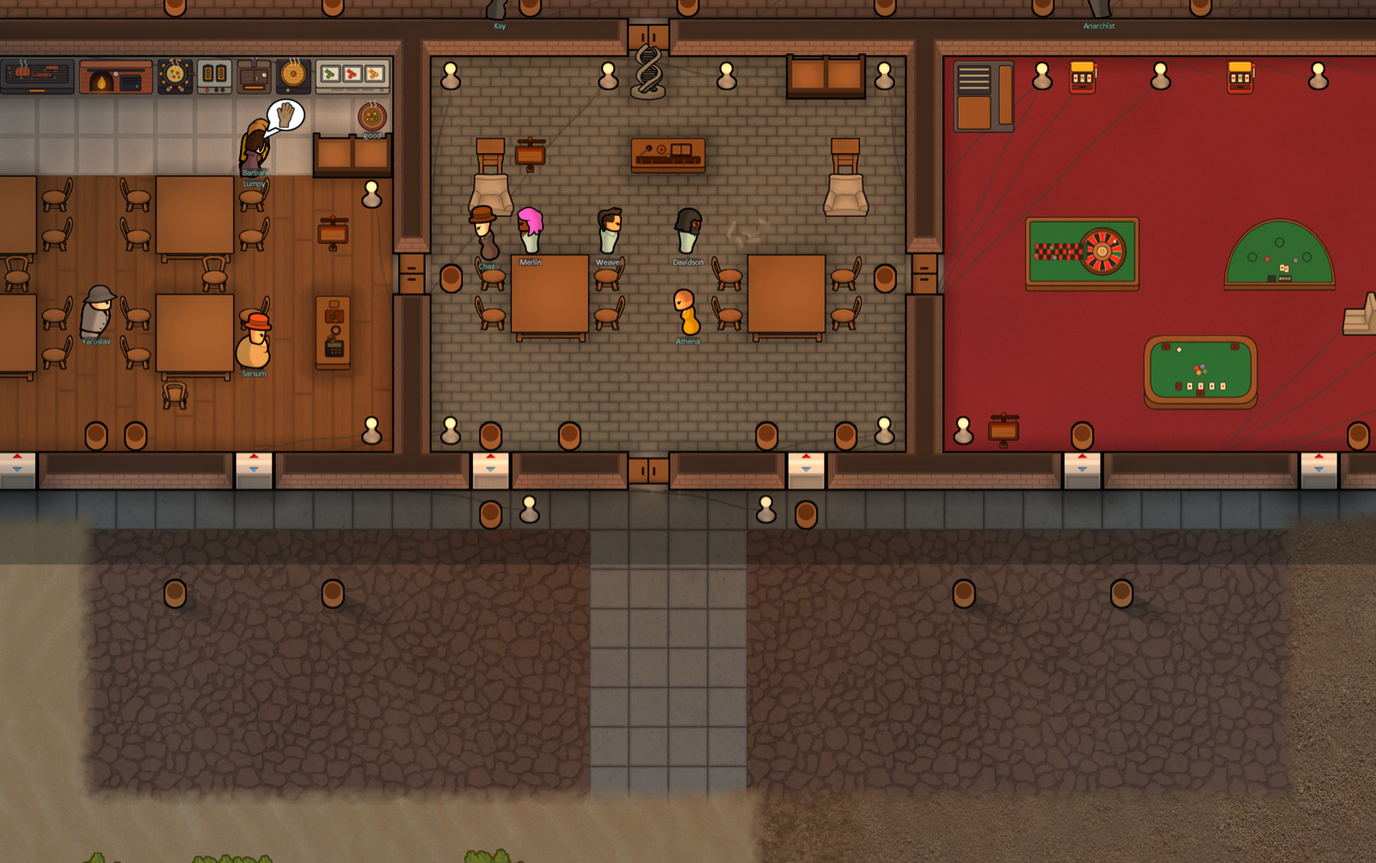
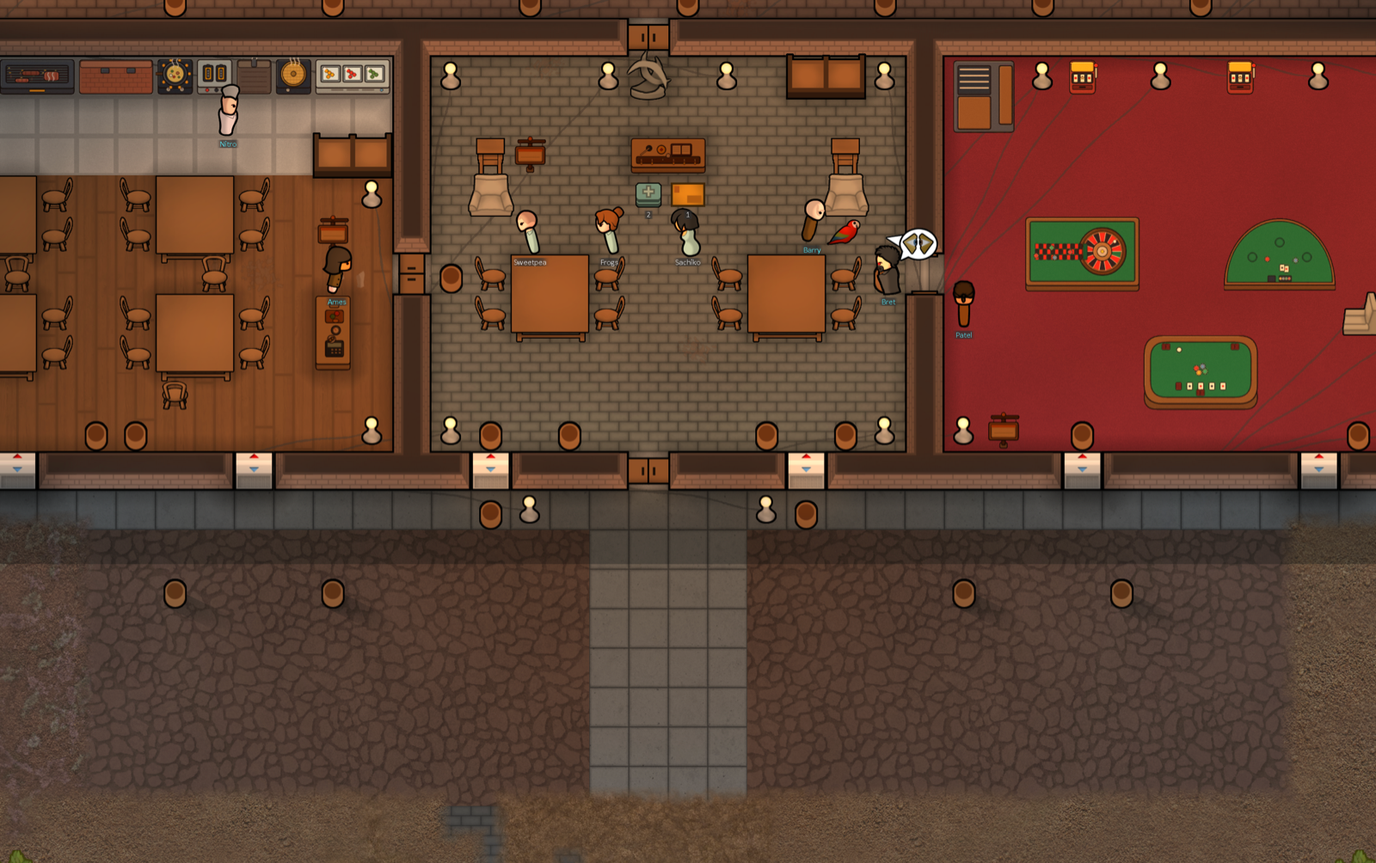
Long-run report (15 days, arrivals on every stretch) and showcase screenshots with real art

diff --git a/docs/longrun/longrun.md b/docs/longrun/longrun.md
@@ -6,117 +6,123 @@ Day 0 is the partial build day, days 1..N are full ledger days (60000 ticks). Mo
 
 | day | present | arrived | left | nights | income | till | bank | renown | whispers | satisf. | casino house | cooked | sold | premium | claims | ledger | errors | TPS | pawns |
 |---|---|---|---|---|---|---|---|---|---|---|---|---|---|---|---|---|---|---|---|
-| 0 | 2 | 5 | 3 | 2 | 505.8 | 0 | 4773 | 12.3 | 0.0 | 0.79 | 14.1 | 5 | 5 | 0.0 | 0 | 0 | 0 | 900 | 89 |
-| 1 | 2 | 0 | 0 | 2 | 210.0 | 0 | 4997 | 12.3 | 0.0 | 0.91 | -9.0 | 0 | 0 | 0.0 | 0 | 0 | 0 | 900 | 84 |
-| 2 | 0 | 3 | 5 | 0 | 0.0 | 0 | 5012 | 15.5 | 0.0 | 0.67 | 0.8 | 0 | 0 | 0.0 | 0 | 0 | 0 | 900 | 80 |
-| 3 | 0 | 0 | 0 | 0 | 60.0 | 60 | 5028 | 15.5 | 0.0 | - | 0.0 | 9 | 4 | 0.0 | 0 | 0 | 0 | 900 | 76 |
-| 4 | 0 | 1 | 1 | 0 | 15.0 | 0 | 5043 | 16.2 | 0.0 | 0.44 | -17.4 | 2 | 1 | 0.0 | 0 | 0 | 0 | 896 | 73 |
-| 5 | 2 | 5 | 3 | 2 | 132.4 | 7 | 5014 | 17.6 | 0.0 | 0.57 | 5.9 | 0 | 0 | 15.6 | 0 | 0 | 0 | 848 | 77 |
-| 6 | 2 | 2 | 2 | 2 | 155.0 | 0 | 5191 | 18.9 | 0.0 | 0.59 | 0.0 | 0 | 0 | 0.0 | 0 | 0 | 0 | 895 | 75 |
-| 7 | 2 | 0 | 0 | 2 | 155.0 | 0 | 5361 | 18.9 | 0.0 | 0.37 | -3.2 | 0 | 0 | 0.0 | 0 | 0 | 0 | 896 | 75 |
-| 8 | 0 | 0 | 2 | 0 | 0.0 | 0 | 5377 | 19.4 | 0.0 | 0.26 | 0.0 | 0 | 0 | 0.0 | 0 | 0 | 0 | 896 | 85 |
-| 9 | 0 | 0 | 0 | 0 | 0.0 | 0 | 5394 | 19.4 | 0.0 | - | 0.0 | 0 | 0 | 0.0 | 0 | 0 | 0 | 895 | 75 |
-| 10 | 0 | 0 | 0 | 0 | 0.0 | 0 | 5367 | 19.4 | 0.0 | - | 0.0 | 0 | 0 | 14.4 | 0 | 0 | 0 | 895 | 73 |
-| 11 | 0 | 0 | 0 | 0 | 0.0 | 0 | 5383 | 19.4 | 0.0 | - | 12.7 | 0 | 0 | 0.0 | 0 | 0 | 0 | 895 | 73 |
-| 12 | 0 | 0 | 0 | 0 | 0.0 | 0 | 5400 | 19.4 | 0.0 | - | 0.0 | 0 | 0 | 0.0 | 0 | 0 | 0 | 894 | 72 |
-| 13 | 0 | 0 | 0 | 0 | 0.0 | 0 | 5416 | 19.4 | 0.0 | - | 0.0 | 0 | 0 | 0.0 | 0 | 0 | 0 | 843 | 71 |
-| 14 | 0 | 0 | 0 | 0 | 0.0 | 0 | 5432 | 19.4 | 0.0 | - | 0.0 | 0 | 0 | 0.0 | 1 | 0 | 0 | 894 | 68 |
-| 15 | 0 | 0 | 0 | 0 | 0.0 | 0 | 5406 | 19.4 | 0.0 | - | 28.5 | 1 | 0 | 14.4 | 0 | 0 | 0 | 895 | 67 |
+| 0 | 2 | 5 | 3 | 2 | 446.4 | 0 | 4711 | 12.1 | 0.0 | 0.75 | 0.0 | 5 | 13 | 0.0 | 0 | 0 | 0 | 883 | 21 |
+| 1 | 3 | 1 | 0 | 3 | 89.4 | 14 | 4801 | 12.2 | 0.0 | 0.79 | 0.0 | 5 | 1 | 0.0 | 0 | 0 | 0 | 900 | 22 |
+| 2 | 2 | 2 | 3 | 2 | 200.2 | 0 | 5029 | 14.8 | 0.0 | 0.61 | 8.3 | 14 | 11 | 0.0 | 0 | 0 | 0 | 900 | 21 |
+| 3 | 3 | 1 | 0 | 3 | 94.1 | 0 | 5139 | 14.8 | 0.0 | 0.50 | -1.6 | 0 | 0 | 0.0 | 0 | 0 | 0 | 900 | 21 |
+| 4 | 0 | 0 | 3 | 1 | 33.4 | 0 | 5187 | 16.5 | 0.0 | 0.50 | 0.0 | 0 | 0 | 0.0 | 0 | 0 | 0 | 897 | 18 |
+| 5 | 0 | 6 | 6 | 0 | 0.0 | 0 | 5156 | 18.7 | 0.0 | 0.46 | -0.1 | 13 | 0 | 17.8 | 0 | 0 | 0 | 848 | 18 |
+| 6 | 0 | 0 | 0 | 0 | 0.0 | 0 | 5172 | 18.7 | 0.0 | - | -3.0 | 7 | 0 | 0.0 | 0 | 0 | 0 | 895 | 17 |
+| 7 | 2 | 2 | 0 | 2 | 103.0 | 0 | 5291 | 18.7 | 0.0 | 0.58 | 0.0 | 4 | 4 | 0.0 | 0 | 0 | 0 | 896 | 19 |
+| 8 | 0 | 0 | 2 | 1 | 167.0 | 0 | 5473 | 20.0 | 0.0 | 0.69 | 0.0 | 7 | 7 | 0.0 | 0 | 0 | 0 | 896 | 17 |
+| 9 | 1 | 1 | 0 | 1 | 25.0 | 0 | 5515 | 20.0 | 0.0 | 0.55 | 1.1 | 0 | 0 | 0.0 | 0 | 0 | 0 | 892 | 18 |
+| 10 | 0 | 0 | 1 | 0 | 0.0 | 0 | 5485 | 20.9 | 0.0 | 0.71 | 4.2 | 1 | 0 | 17.8 | 0 | 0 | 0 | 895 | 17 |
+| 11 | 0 | 0 | 0 | 0 | 0.0 | 0 | 5501 | 20.9 | 0.0 | - | 0.0 | 19 | 0 | 0.0 | 0 | 0 | 0 | 895 | 17 |
+| 12 | 0 | 0 | 0 | 0 | 0.0 | 0 | 5518 | 20.9 | 0.0 | - | 6.5 | 5 | 0 | 0.0 | 0 | 0 | 0 | 896 | 36 |
+| 13 | 2 | 2 | 0 | 2 | 0.0 | 0 | 5535 | 20.9 | 0.0 | 0.43 | 8.6 | 3 | 6 | 0.0 | 1 | 0 | 0 | 848 | 20 |
+| 14 | 2 | 6 | 6 | 2 | 50.0 | 0 | 5602 | 22.9 | 0.0 | 0.45 | 0.0 | 0 | 0 | 0.0 | 0 | 0 | 0 | 896 | 19 |
+| 15 | 1 | 1 | 2 | 3 | 75.0 | 0 | 5648 | 23.7 | 0.0 | 0.41 | 0.0 | 0 | 0 | 16.9 | 0 | 0 | 0 | 896 | 18 |
 
 ## Income by category (silver per day)
 
-| day | food | inn.room | spa |
-|---|---|---|---|
-| 0 | 241.8 | 210.0 | 54.0 |
-| 1 | 0 | 210.0 | 0 |
-| 2 | 0 | 0 | 0 |
-| 3 | 60.0 | 0 | 0 |
-| 4 | 15.0 | 0 | 0 |
-| 5 | 0 | 100.0 | 32.4 |
-| 6 | 0 | 155.0 | 0 |
-| 7 | 0 | 155.0 | 0 |
-| 8 | 0 | 0 | 0 |
-| 9 | 0 | 0 | 0 |
-| 10 | 0 | 0 | 0 |
-| 11 | 0 | 0 | 0 |
-| 12 | 0 | 0 | 0 |
-| 13 | 0 | 0 | 0 |
-| 14 | 0 | 0 | 0 |
-| 15 | 0 | 0 | 0 |
+| day | casino | food | inn.room | shop | spa |
+|---|---|---|---|---|---|
+| 0 | 0 | 328.8 | 50.0 | 0 | 67.6 |
+| 1 | 0 | 14.4 | 75.0 | 0 | 0 |
+| 2 | 0 | 147.2 | 50.0 | 3.0 | 0 |
+| 3 | 0 | 0 | 75.0 | 19.1 | 0 |
+| 4 | 0 | 0 | 25.0 | 8.4 | 0 |
+| 5 | 0 | 0 | 0 | 0 | 0 |
+| 6 | 0 | 0 | 0 | 0 | 0 |
+| 7 | 0 | 53.0 | 50.0 | 0 | 0 |
+| 8 | 0 | 142.0 | 25.0 | 0 | 0 |
+| 9 | 0 | 0 | 25.0 | 0 | 0 |
+| 10 | 0 | 0 | 0 | 0 | 0 |
+| 11 | 0 | 0 | 0 | 0 | 0 |
+| 12 | 0 | 0 | 0 | 0 | 0 |
+| 13 | -171.4 | 94.5 | 50.0 | 26.9 | 0 |
+| 14 | 0 | 0 | 50.0 | 0 | 0 |
+| 15 | 0 | 0 | 75.0 | 0 | 0 |
 
 ## Balance
 
-* Average income per full day: **48.5** (first 5 days: 83.5); target KONZEPT D20 early game: 60-150 per day.
-* Guests seen: 11, nights sold: 10, plates cooked (lower bound, polled): 17, plates sold: 10.
-* Renown 12.3 to 19.4, whispers 0.0; TPS average 890.
+* Average income per full day: **55.8** (first 5 days: 83.4); target KONZEPT D20 early game: 60-150 per day.
+* Guests seen: 12, nights sold: 22, plates cooked (lower bound, polled): 83, plates sold: 42.
+* Renown 12.1 to 23.7, whispers 0.0; TPS average 890.
 
 ## Checks
 
-* ok   hotel furniture spawned: 44 powered buildings, 0 without power
+* ok   all four venues are recognised: The Harbor Light, Hearth Kitchen, The Golden Anchor, Tidewater Spa
+* ok   hotel furniture spawned: 58 powered buildings, 0 without power
 * ok   colonists on the map: 3
 * ok   bank account opened
 * ok   at least one insurance policy signed
-* ok   entrance door reachable from the plaza ((121, 0, 101), standable=True)
-* ok   lobby reachable from the plaza ((121, 0, 107), standable=True)
-* ok   restaurant reachable from the plaza ((108, 0, 106), standable=True)
-* ok   restaurant stations row reachable from the plaza ((108, 0, 110), standable=True)
-* ok   casino reachable from the plaza ((135, 0, 106), standable=True)
-* ok   corridor reachable from the plaza ((121, 0, 113), standable=True)
-* ok   room 1 reachable from the plaza ((104, 0, 118), standable=True)
-* ok   room 2 reachable from the plaza ((110, 0, 118), standable=True)
-* ok   room 3 reachable from the plaza ((116, 0, 118), standable=True)
-* ok   spa reachable from the plaza ((125, 0, 118), standable=True)
-* ok   bank reachable from the plaza ((136, 0, 118), standable=True)
-* ok   HH_FrontDesk at (121, 0, 109) rot 0: interaction cell (121, 0, 108) reachable (standable=True, blockers=[])
-* ok   HH_Station_PrepCounter at (102, 0, 111) rot 0: interaction cell (102, 0, 110) reachable (standable=True, blockers=[])
-* ok   HH_Station_StockPot at (104, 0, 111) rot 0: interaction cell (104, 0, 110) reachable (standable=True, blockers=[])
-* ok   HH_Station_Grill at (105, 0, 111) rot 0: interaction cell (105, 0, 110) reachable (standable=True, blockers=[])
-* ok   HH_Station_Oven at (107, 0, 111) rot 0: interaction cell (107, 0, 110) reachable (standable=True, blockers=[])
-* ok   HH_Station_WokStation at (109, 0, 111) rot 0: interaction cell (109, 0, 110) reachable (standable=True, blockers=[])
-* ok   HH_Station_DeepFryer at (110, 0, 111) rot 0: interaction cell (110, 0, 110) reachable (standable=True, blockers=[])
-* ok   HH_Station_Smoker at (111, 0, 111) rot 0: interaction cell (111, 0, 110) reachable (standable=True, blockers=[])
-* ok   HH_Station_Steamer at (112, 0, 111) rot 0: interaction cell (112, 0, 110) reachable (standable=True, blockers=[])
-* ok   HH_Station_ColdStation at (113, 0, 111) rot 0: interaction cell (113, 0, 110) reachable (standable=True, blockers=[])
-* ok   HH_Station_DoughBench at (102, 0, 108) rot 3: interaction cell (103, 0, 108) reachable (standable=True, blockers=[DiningChair])
-* ok   HH_ShopCounter at (113, 0, 104) rot 3: interaction cell (114, 0, 104) reachable (standable=True, blockers=[])
+* ok   entrance door reachable from the plaza ((130, 0, 103), standable=True)
+* ok   lobby reachable from the plaza ((130, 0, 109), standable=True)
+* ok   restaurant reachable from the plaza ((117, 0, 108), standable=True)
+* ok   restaurant stations row reachable from the plaza ((117, 0, 112), standable=True)
+* ok   casino reachable from the plaza ((144, 0, 108), standable=True)
+* ok   corridor reachable from the plaza ((130, 0, 115), standable=True)
+* ok   room 1 reachable from the plaza ((113, 0, 120), standable=True)
+* ok   room 2 reachable from the plaza ((119, 0, 120), standable=True)
+* ok   room 3 reachable from the plaza ((125, 0, 120), standable=True)
+* ok   spa reachable from the plaza ((134, 0, 120), standable=True)
+* ok   bank reachable from the plaza ((145, 0, 120), standable=True)
+* ok   HH_FrontDesk at (130, 0, 111) rot 0: interaction cell (130, 0, 110) reachable (standable=True, blockers=[])
+* ok   HH_Station_PrepCounter at (111, 0, 113) rot 0: interaction cell (111, 0, 112) reachable (standable=True, blockers=[])
+* ok   HH_Station_StockPot at (113, 0, 113) rot 0: interaction cell (113, 0, 112) reachable (standable=True, blockers=[])
+* ok   HH_Station_Grill at (114, 0, 113) rot 0: interaction cell (114, 0, 112) reachable (standable=True, blockers=[])
+* ok   HH_Station_Oven at (116, 0, 113) rot 0: interaction cell (116, 0, 112) reachable (standable=True, blockers=[])
+* ok   HH_Station_WokStation at (118, 0, 113) rot 0: interaction cell (118, 0, 112) reachable (standable=True, blockers=[])
+* ok   HH_Station_DeepFryer at (119, 0, 113) rot 0: interaction cell (119, 0, 112) reachable (standable=True, blockers=[])
+* ok   HH_Station_Smoker at (120, 0, 113) rot 0: interaction cell (120, 0, 112) reachable (standable=True, blockers=[])
+* ok   HH_Station_Steamer at (121, 0, 113) rot 0: interaction cell (121, 0, 112) reachable (standable=True, blockers=[])
+* ok   HH_Station_ColdStation at (122, 0, 113) rot 0: interaction cell (122, 0, 112) reachable (standable=True, blockers=[])
+* ok   HH_Station_DoughBench at (111, 0, 110) rot 3: interaction cell (112, 0, 110) reachable (standable=True, blockers=[DiningChair])
+* ok   HH_ShopCounter at (122, 0, 106) rot 3: interaction cell (123, 0, 106) reachable (standable=True, blockers=[])
 * ok   at least one dish bill could be set up
-* ok   friendly faction for guests: Terbinunt
+* ok   friendly faction for guests: Hefinistan Pact
 * ok   all days played: 15/15
 * ok   ledger sums to zero all the time
 * ok   no HLog errors during the run: 0
-* FAIL guests arrived on at least 5 days (shortened runs: a third): 4 of 15
-* ok   income > 0: 1233.2 silver over 16 ledger days
-* ok   no guest stuck for more than 3 days: ok (11 guests seen)
+* ok   guests arrived on at least 5 days (shortened runs: a third): 9 of 15
+* ok   income > 0: 1283.5 silver over 16 ledger days
+* ok   no guest stuck for more than 3 days: ok (12 guests seen)
 * ok   no module paused by Guard
 
 ## Notes
 
 * research of the mod finished up front (hospitality + banking tabs): 18 projects (the run measures the finished hotel, not the research path)
-* building origin (101, 0, 101) on map (250, 1, 250)
+* building origin (110, 0, 103) on map (250, 1, 250)
 * carpets: CarpetRed / CarpetBlue / CarpetWhite
+* rooms set to 21 C: 17 (outdoors 4 C)
 * lone powered buildings re-wired: 0
+* sign The Harbor Light: type HH_Venue_Tavern, room 138 cells 120, module on True
+* sign Hearth Kitchen: type HH_Venue_Restaurant, room 137 cells 130, module on True
+* sign The Golden Anchor: type HH_Venue_Casino, room 139 cells 130, module on True
+* sign Tidewater Spa: type HH_Venue_Spa, room 153 cells 60, module on True
 * policy SL_RoofOverHead: signed
 * policy SL_RimHealth: signed
 * policy SL_LegalShield: signed
 * raids, mad animals and other threat incidents switched off (threatScale 0, 34 incident defs zeroed) so the run measures the hotel, not defence
-* cook check Pepper: Cooking disabled=False priority=3 skill=1 manhunter/incapable=False
-* cook check Missy: Cooking disabled=False priority=3 skill=0 manhunter/incapable=False
-* cook check Mariya: Cooking disabled=False priority=3 skill=1 manhunter/incapable=False
+* cook check Espinoza: Cooking disabled=False priority=3 skill=3 manhunter/incapable=False
+* cook check Andy: Cooking disabled=False priority=3 skill=2 manhunter/incapable=False
+* cook check Tiny: Cooking disabled=False priority=3 skill=1 manhunter/incapable=False
 * kitchen bills added: 18 (do-until 3 plates, Everyday quality)
 * forced guest groups on day 0: 2 (no forced guests after this)
 * start tick 12776, first day boundary 60000, running 15 full days, colonists 3, map (250, 1, 250)
 * bill diag @15296: HH_Station_PrepCounter 'HH_Cook_FruitBowl' shouldNow=True suspended=False products=0/3 powered= usable=True
-*   workgiver HH_Station_PrepCounter for Pepper: JOB DoBill
-*   workgiver HH_Station_PrepCounter for Missy: no job (has=False, forbidden=False, reach=True, reserve=True, cookDisabled=False, prio=3, curjob=GotoWander)
-*   workgiver HH_Station_PrepCounter for Mariya: JOB DoBill
+*   workgiver HH_Station_PrepCounter for Espinoza: JOB DoBill
+*   workgiver HH_Station_PrepCounter for Andy: JOB DoBill
+*   workgiver HH_Station_PrepCounter for Tiny: JOB DoBill
 * bill diag @15296: HH_Station_StockPot 'HH_Cook_BerryCompote' shouldNow=True suspended=False products=0/3 powered= usable=True
-*   workgiver HH_Station_StockPot for Pepper: JOB DoBill
-*   workgiver HH_Station_StockPot for Missy: no job (has=False, forbidden=False, reach=True, reserve=True, cookDisabled=False, prio=3, curjob=GotoWander)
-*   workgiver HH_Station_StockPot for Mariya: JOB DoBill
+*   workgiver HH_Station_StockPot for Espinoza: JOB DoBill
+*   workgiver HH_Station_StockPot for Andy: JOB DoBill
+*   workgiver HH_Station_StockPot for Tiny: JOB DoBill
 * bill diag @15296: HH_Station_Grill 'HH_Cook_RoastCornOnTheCob' shouldNow=True suspended=False products=0/3 powered= usable=True
-* colonist Pepper @15296: spawned=True downed=False mental=False starving=False exhausted=False hediffs=[Bite:2.0] hp=1.00
-* colonist Missy @15296: spawned=True downed=False mental=False starving=False exhausted=False hediffs=[Bite:4.0] hp=1.00
-* colonist Mariya @15296: spawned=True downed=False mental=False starving=False exhausted=False hediffs=[] hp=1.00
+* colonist Espinoza @15296: spawned=True downed=False mental=False starving=False exhausted=False hediffs=[] hp=1.00
+* colonist Andy @15296: spawned=True downed=False mental=False starving=False exhausted=False hediffs=[] hp=1.00
+* colonist Tiny @15296: spawned=True downed=False mental=False starving=False exhausted=False hediffs=[Bite:5.0] hp=1.00
 * bill diag @30416: HH_Station_PrepCounter 'HH_Cook_FruitBowl' shouldNow=True suspended=False products=0/3 powered= usable=True
 * bill diag @30416: HH_Station_StockPot 'HH_Cook_BerryCompote' shouldNow=True suspended=False products=0/3 powered= usable=True
 * bill diag @30416: HH_Station_Grill 'HH_Cook_RoastCornOnTheCob' shouldNow=True suspended=False products=0/3 powered= usable=True
@@ -129,98 +135,93 @@ Day 0 is the partial build day, days 1..N are full ledger days (60000 ticks). Mo
 * bill diag @75776: HH_Station_PrepCounter 'HH_Cook_FruitBowl' shouldNow=True suspended=False products=0/3 powered= usable=True
 * bill diag @75776: HH_Station_StockPot 'HH_Cook_BerryCompote' shouldNow=True suspended=False products=0/3 powered= usable=True
 * bill diag @75776: HH_Station_Grill 'HH_Cook_RoastCornOnTheCob' shouldNow=True suspended=False products=0/3 powered= usable=True
-* colonist Missy @83336: spawned=True downed=False mental=False starving=False exhausted=True hediffs=[Bite:4.0] hp=1.00
-* colonist Missy @118616: spawned=True downed=False mental=False starving=False exhausted=False hediffs=[Bite:4.0] hp=1.00
-* colonist Pepper @204296: spawned=True downed=False mental=False starving=False exhausted=False hediffs=[Bite:2.0,HH_WellFed:0.5] hp=1.00
-* colonist Pepper @214376: spawned=True downed=False mental=False starving=False exhausted=False hediffs=[Bite:2.0] hp=1.00
-* colonist Mariya @214376: spawned=True downed=False mental=False starving=False exhausted=False hediffs=[HH_WellFed:0.5] hp=1.00
-* colonist Missy @219416: spawned=True downed=False mental=False starving=False exhausted=False hediffs=[Bite:4.0,HH_WellFed:0.5] hp=1.00
-* colonist Mariya @221936: spawned=True downed=False mental=False starving=False exhausted=False hediffs=[] hp=1.00
-* colonist Missy @224456: spawned=True downed=False mental=False starving=False exhausted=False hediffs=[Bite:4.0] hp=1.00
-* colonist Pepper @269816: spawned=True downed=False mental=False starving=False exhausted=False hediffs=[Bite:2.0,HH_WellFed:0.5] hp=1.00
-* colonist Missy @274856: spawned=True downed=False mental=False starving=False exhausted=False hediffs=[Bite:4.0,Plague:0.0] hp=1.00
-* colonist Pepper @277376: spawned=True downed=False mental=False starving=False exhausted=False hediffs=[Bite:2.0] hp=1.00
-* colonist Missy @279896: spawned=True downed=False mental=False starving=False exhausted=False hediffs=[Bite:4.0,Plague:0.1] hp=1.00
-* colonist Missy @289976: spawned=True downed=False mental=False starving=False exhausted=False hediffs=[Bite:4.0,Plague:0.2] hp=1.00
-* colonist Missy @297536: spawned=True downed=False mental=False starving=False exhausted=False hediffs=[Bite:4.0,Plague:0.3] hp=1.00
-* colonist Missy @307616: spawned=True downed=False mental=False starving=False exhausted=False hediffs=[Bite:4.0,Plague:0.4] hp=1.00
-* colonist Missy @317696: spawned=True downed=False mental=False starving=False exhausted=False hediffs=[Bite:4.0,Plague:0.5] hp=1.00
-* colonist Missy @325256: spawned=True downed=False mental=False starving=False exhausted=False hediffs=[Bite:4.0,Plague:0.6] hp=1.00
-* colonist Missy @335336: spawned=True downed=False mental=False starving=False exhausted=False hediffs=[Bite:4.0,Plague:0.7] hp=1.00
-* colonist Missy @342896: spawned=True downed=False mental=False starving=False exhausted=False hediffs=[Bite:4.0,Plague:0.8] hp=1.00
-* colonist Missy @352976: spawned=True downed=False mental=False starving=False exhausted=False hediffs=[Bite:4.0,Plague:0.9] hp=1.00
-* colonist Mariya @352976: spawned=True downed=False mental=False starving=False exhausted=False hediffs=[FoodPoisoning:1.0] hp=1.00
-* colonist Mariya @355496: spawned=True downed=False mental=False starving=False exhausted=False hediffs=[FoodPoisoning:0.9] hp=1.00
-* colonist Missy @358016: spawned=True downed=True mental=False starving=False exhausted=False hediffs=[Bite:4.0,Plague:0.9] hp=1.00
-* colonist Missy @360536: spawned=True downed=True mental=False starving=False exhausted=False hediffs=[Bite:4.0,Plague:1.0] hp=1.00
-* colonist Mariya @363056: spawned=True downed=False mental=False starving=False exhausted=False hediffs=[FoodPoisoning:0.8] hp=1.00
-* colonist Missy @365576: DEAD: Bite 4.00, Plague 1.00
-* colonist Mariya @365576: spawned=True downed=True mental=False starving=False exhausted=False hediffs=[FoodPoisoning:0.8] hp=1.00
-* colonist Mariya @368096: spawned=True downed=True mental=False starving=False exhausted=False hediffs=[FoodPoisoning:0.7] hp=1.00
-* colonist Mariya @373136: spawned=True downed=True mental=False starving=False exhausted=False hediffs=[FoodPoisoning:0.6] hp=1.00
-* colonist Mariya @380696: spawned=True downed=True mental=False starving=False exhausted=False hediffs=[FoodPoisoning:0.5] hp=1.00
-* colonist Mariya @385736: spawned=True downed=True mental=False starving=False exhausted=False hediffs=[FoodPoisoning:0.4] hp=1.00
-* colonist Mariya @393296: spawned=True downed=True mental=False starving=False exhausted=False hediffs=[FoodPoisoning:0.3] hp=1.00
-* colonist Mariya @398336: spawned=True downed=True mental=False starving=False exhausted=False hediffs=[FoodPoisoning:0.2] hp=1.00
-* colonist Mariya @400856: spawned=True downed=False mental=False starving=False exhausted=False hediffs=[FoodPoisoning:0.2] hp=1.00
-* colonist Mariya @403376: spawned=True downed=False mental=False starving=False exhausted=False hediffs=[FoodPoisoning:0.1] hp=1.00
-* colonist Mariya @410936: spawned=True downed=False mental=False starving=False exhausted=False hediffs=[FoodPoisoning:0.0] hp=1.00
-* colonist Mariya @413456: spawned=True downed=False mental=False starving=False exhausted=False hediffs=[] hp=1.00
-*   damage to Pepper: <color=#D09B61FF>Mariya</color>, using her left fist tentatively, hit <color=#D09B61FF>Pepper</color> in the right arm. | <color=#D09B61FF>Pepper</color> attempted to hit <color=#D09B61FF>Mariya</color>, but hit only air. | <color=#D09B61FF>Mariya</color> smashed <color=#D09B61FF>Pepper</color> in the right leg.
-*   damage to Mariya: <color=#D09B61FF>Mariya</color>, using her left fist tentatively, hit <color=#D09B61FF>Pepper</color> in the right arm. | <color=#D09B61FF>Pepper</color> attempted to hit <color=#D09B61FF>Mariya</color>, but hit only air. | <color=#D09B61FF>Mariya</color> smashed <color=#D09B61FF>Pepper</color> in the right leg.
-*   damage to Pepper: <color=#D09B61FF>Mariya</color>, using her left fist tentatively, hit <color=#D09B61FF>Pepper</color> in the right arm. | <color=#D09B61FF>Pepper</color> attempted to hit <color=#D09B61FF>Mariya</color>, but hit only air. | <color=#D09B61FF>Mariya</color> smashed <color=#D09B61FF>Pepper</color> in the right leg.
-*   damage to Mariya: <color=#D09B61FF>Mariya</color>, using her left fist tentatively, hit <color=#D09B61FF>Pepper</color> in the right arm. | <color=#D09B61FF>Pepper</color> attempted to hit <color=#D09B61FF>Mariya</color>, but hit only air. | <color=#D09B61FF>Mariya</color> smashed <color=#D09B61FF>Pepper</color> in the right leg.
-*   damage to Pepper: <color=#D09B61FF>Mariya</color>, using her left fist tentatively, hit <color=#D09B61FF>Pepper</color> in the right arm. | <color=#D09B61FF>Pepper</color> attempted to hit <color=#D09B61FF>Mariya</color>, but hit only air. | <color=#D09B61FF>Mariya</color> smashed <color=#D09B61FF>Pepper</color> in the right leg.
-*   damage to Mariya: <color=#D09B61FF>Mariya</color>, using her left fist tentatively, hit <color=#D09B61FF>Pepper</color> in the right arm. | <color=#D09B61FF>Pepper</color> attempted to hit <color=#D09B61FF>Mariya</color>, but hit only air. | <color=#D09B61FF>Mariya</color> smashed <color=#D09B61FF>Pepper</color> in the right leg.
-*   damage to Pepper: <color=#D09B61FF>Mariya</color>, using her left fist tentatively, hit <color=#D09B61FF>Pepper</color> in the right arm. | <color=#D09B61FF>Pepper</color> attempted to hit <color=#D09B61FF>Mariya</color>, but hit only air. | <color=#D09B61FF>Mariya</color> smashed <color=#D09B61FF>Pepper</color> in the right leg.
-*   damage to Mariya: <color=#D09B61FF>Mariya</color>, using her left fist tentatively, hit <color=#D09B61FF>Pepper</color> in the right arm. | <color=#D09B61FF>Pepper</color> attempted to hit <color=#D09B61FF>Mariya</color>, but hit only air. | <color=#D09B61FF>Mariya</color> smashed <color=#D09B61FF>Pepper</color> in the right leg.
-*   damage to Pepper: <color=#D09B61FF>Mariya</color>, using her left fist tentatively, hit <color=#D09B61FF>Pepper</color> in the right arm. | <color=#D09B61FF>Pepper</color> attempted to hit <color=#D09B61FF>Mariya</color>, but hit only air. | <color=#D09B61FF>Mariya</color> smashed <color=#D09B61FF>Pepper</color> in the right leg.
-*   damage to Mariya: <color=#D09B61FF>Mariya</color>, using her left fist tentatively, hit <color=#D09B61FF>Pepper</color> in the right arm. | <color=#D09B61FF>Pepper</color> attempted to hit <color=#D09B61FF>Mariya</color>, but hit only air. | <color=#D09B61FF>Mariya</color> smashed <color=#D09B61FF>Pepper</color> in the right leg.
-*   damage to Pepper: <color=#D09B61FF>Mariya</color>, using her left fist tentatively, hit <color=#D09B61FF>Pepper</color> in the right arm. | <color=#D09B61FF>Pepper</color> attempted to hit <color=#D09B61FF>Mariya</color>, but hit only air. | <color=#D09B61FF>Mariya</color> smashed <color=#D09B61FF>Pepper</color> in the right leg.
-*   damage to Mariya: <color=#D09B61FF>Mariya</color>, using her left fist tentatively, hit <color=#D09B61FF>Pepper</color> in the right arm. | <color=#D09B61FF>Pepper</color> attempted to hit <color=#D09B61FF>Mariya</color>, but hit only air. | <color=#D09B61FF>Mariya</color> smashed <color=#D09B61FF>Pepper</color> in the right leg.
-* return visits of known guests: 5; threat pawns removed: 3; heat/cold assists: 0
-* colonists alive at the end: 2/3; upkeep: 28 generator refuels, 2 pantry restocks, 6 starvation feeds
+* colonist Espinoza @83336: spawned=True downed=False mental=False starving=False exhausted=True hediffs=[] hp=1.00
+* colonist Andy @83336: spawned=True downed=False mental=False starving=False exhausted=True hediffs=[] hp=1.00
+* colonist Espinoza @98456: spawned=True downed=False mental=False starving=False exhausted=False hediffs=[] hp=1.00
+* colonist Andy @111056: spawned=True downed=False mental=False starving=False exhausted=False hediffs=[] hp=1.00
+* colonist Espinoza @118616: spawned=True downed=False mental=False starving=False exhausted=False hediffs=[HH_WellFed:0.5] hp=1.00
+* colonist Andy @118616: spawned=True downed=False mental=False starving=False exhausted=False hediffs=[HH_WellFed:0.5] hp=1.00
+* colonist Andy @123656: spawned=True downed=False mental=False starving=False exhausted=False hediffs=[] hp=1.00
+* colonist Espinoza @126176: spawned=True downed=False mental=False starving=False exhausted=False hediffs=[] hp=1.00
+* colonist Tiny @138776: spawned=True downed=False mental=False starving=False exhausted=False hediffs=[Bite:5.0,HH_WellFed:0.5] hp=1.00
+* colonist Tiny @146336: spawned=True downed=False mental=False starving=False exhausted=False hediffs=[Bite:5.0] hp=1.00
+* colonist Espinoza @148856: spawned=True downed=False mental=False starving=False exhausted=False hediffs=[HH_WellFed:0.5] hp=1.00
+* colonist Andy @151376: spawned=True downed=False mental=False starving=False exhausted=False hediffs=[HH_WellFed:0.5] hp=1.00
+* colonist Espinoza @156416: spawned=True downed=False mental=False starving=False exhausted=False hediffs=[] hp=1.00
+* colonist Andy @158936: spawned=True downed=False mental=False starving=False exhausted=False hediffs=[] hp=1.00
+* colonist Espinoza @259736: spawned=True downed=False mental=False starving=False exhausted=False hediffs=[FoodPoisoning:1.0] hp=1.00
+* colonist Espinoza @264776: spawned=True downed=False mental=False starving=False exhausted=False hediffs=[FoodPoisoning:0.9] hp=1.00
+* colonist Espinoza @269816: spawned=True downed=False mental=False starving=False exhausted=False hediffs=[FoodPoisoning:0.8] hp=1.00
+* colonist Espinoza @277376: spawned=True downed=False mental=True starving=False exhausted=False hediffs=[FoodPoisoning:0.7] hp=1.00
+* colonist Espinoza @282416: spawned=True downed=False mental=True starving=False exhausted=False hediffs=[FoodPoisoning:0.6] hp=1.00
+* colonist Espinoza @287456: spawned=True downed=False mental=True starving=False exhausted=False hediffs=[FoodPoisoning:0.5] hp=1.00
+* colonist Espinoza @295016: spawned=True downed=False mental=True starving=False exhausted=False hediffs=[FoodPoisoning:0.4] hp=1.00
+* colonist Espinoza @300056: spawned=True downed=False mental=False starving=False exhausted=False hediffs=[FoodPoisoning:0.3] hp=1.00
+* colonist Espinoza @305096: spawned=True downed=False mental=False starving=False exhausted=False hediffs=[FoodPoisoning:0.2] hp=1.00
+* colonist Espinoza @312656: spawned=True downed=False mental=False starving=False exhausted=False hediffs=[FoodPoisoning:0.1] hp=1.00
+* colonist Espinoza @317696: spawned=True downed=False mental=False starving=False exhausted=False hediffs=[FoodPoisoning:0.8] hp=1.00
+* colonist Espinoza @322736: spawned=True downed=False mental=False starving=False exhausted=False hediffs=[FoodPoisoning:0.7] hp=1.00
+* colonist Espinoza @327776: spawned=True downed=False mental=False starving=False exhausted=False hediffs=[FoodPoisoning:0.6] hp=1.00
+* colonist Espinoza @332816: spawned=True downed=False mental=False starving=False exhausted=False hediffs=[FoodPoisoning:0.5] hp=1.00
+* colonist Espinoza @340376: spawned=True downed=False mental=False starving=False exhausted=False hediffs=[FoodPoisoning:0.4] hp=1.00
+* colonist Tiny @340376: spawned=True downed=False mental=False starving=False exhausted=False hediffs=[Bite:5.0,HH_WellFed:0.5] hp=1.00
+* colonist Espinoza @345416: spawned=True downed=False mental=False starving=False exhausted=False hediffs=[FoodPoisoning:0.3] hp=1.00
+* colonist Tiny @350456: spawned=True downed=False mental=False starving=False exhausted=False hediffs=[Bite:5.0] hp=1.00
+* colonist Espinoza @352976: spawned=True downed=False mental=False starving=False exhausted=False hediffs=[FoodPoisoning:0.2] hp=1.00
+* colonist Espinoza @358016: spawned=True downed=False mental=False starving=False exhausted=False hediffs=[FoodPoisoning:0.1] hp=1.00
+* colonist Espinoza @363056: spawned=True downed=False mental=False starving=False exhausted=False hediffs=[FoodPoisoning:0.0] hp=1.00
+* colonist Espinoza @365576: spawned=True downed=False mental=False starving=False exhausted=False hediffs=[] hp=1.00
+* colonist Andy @390776: spawned=True downed=False mental=False starving=False exhausted=False hediffs=[HH_WellFed:0.5] hp=1.00
+* return visits of known guests: 15; threat pawns removed: 6; heat/cold assists: 3
+* colonists alive at the end: 3/3; upkeep: 44 generator refuels, 3 pantry restocks, 6 starvation feeds
 * tick 15296: pantry had 6.3 nutrition, restocked (meals + raw food)
-* tick 58136: Missy was starving, fed once
-* tick 93416: Missy was starving, fed once
-* tick 171536: Mariya was starving, fed once
-* tick 320216: Pepper was starving, fed once
-* tick 347936: Missy was starving, fed once
-* tick 385736: Mariya was starving, fed once
-* tick 491576: pantry had 11.1 nutrition, restocked (meals + raw food)
+* tick 58136: Espinoza was starving, fed once
+* tick 58136: Andy was starving, fed once
+* tick 58136: Tiny was starving, fed once
+* tick 93416: Espinoza was starving, fed once
+* tick 93416: Andy was starving, fed once
+* tick 297536: Espinoza was starving, fed once
+* tick 317696: pantry had 11.1 nutrition, restocked (meals + raw food)
+* tick 652856: pantry had 11.7 nutrition, restocked (meals + raw food)
 * incident: tick 15296: letter [SL_ClawbackNotice] Welcome to Clawback Mutual: Roof Over Your Head
 * incident: tick 15296: letter [SL_ClawbackNotice] Welcome to Clawback Mutual: Rim Health Plan
 * incident: tick 15296: letter [SL_ClawbackNotice] Welcome to Clawback Mutual: Legal Shield
-* incident: tick 27896: letter [PositiveEvent] Guests left: Terbinunt
-* incident: tick 111056: letter [PositiveEvent] Inspired creativity: Mariya
-* incident: tick 131216: letter [PositiveEvent] Guests left: Terbinunt
-* incident: tick 146336: letter [NeutralEvent] Guests: Treaty of Choque
+* incident: tick 25376: letter [PositiveEvent] Guests left: Hefinistan Pact
+* incident: tick 85856: letter [NeutralEvent] Guests: Hefinistan Pact
+* incident: tick 131216: letter [PositiveEvent] Guests left: Hefinistan Pact
+* incident: tick 131216: letter [PositiveEvent] Guests left: Hefinistan Pact
+* incident: tick 146336: letter [NeutralEvent] Guests: Hefinistan Pact
 * incident: tick 151376: letter [NeutralEvent] Visitor
-* incident: tick 161456: letter [PositiveEvent] Guests left: Treaty of Choque
-* incident: tick 174056: letter [PositiveEvent] Gift from Treaty of Choque
-* incident: tick 226976: letter [NeutralEvent] Visitor
-* incident: tick 264776: letter [NeutralEvent] Guests: Terbinunt
-* incident: tick 274856: letter [NegativeEvent] Disease: Plague
-* incident: tick 282416: letter [PositiveEvent] Guests left: Terbinunt
-* incident: tick 307616: letter [PositiveEvent] Exotic goods trader from Terbinunt
-* incident: tick 312656: letter [NeutralEvent] Guests: Terbinunt
-* incident: tick 325256: letter [PositiveEvent] Guests left: Terbinunt
-* incident: tick 325256: letter [ThreatBig] Raid: Trash Lineup
-* incident: tick 325256: hostile on the map (removed): Trash Lineup/Drifter (e.g. Lance)
+* incident: tick 204296: letter [NeutralEvent] Guests: The Gubasea League
+* incident: tick 252176: letter [PositiveEvent] Guests left: The Gubasea League
+* incident: tick 264776: letter [PositiveEvent] Cargo pods
+* incident: tick 272336: letter [PositiveEvent] Guests left: Hefinistan Pact
+* incident: tick 277376: letter [NegativeEvent] Insulting spree: Espinoza
+* incident: tick 315176: letter [PositiveEvent] Guests left: Hefinistan Pact
+* incident: tick 320216: letter [PositiveEvent] Guests left: Hefinistan Pact
+* incident: tick 325256: letter [ThreatBig] Raid: Psyck Pillers
+* incident: tick 325256: hostile on the map (removed): Psyck Pillers/Drifter (e.g. Veronica)
 * incident: tick 363056: letter [NewQuest] Quest available: Mechanoid Signal
-* incident: tick 365576: letter [ThreatSmall] Berserk: Lolly
-* incident: tick 365576: letter [NeutralEvent] Requiem of Femininity opportunity for Missy
-* incident: tick 365576: letter [Death] Death: Missy
-* incident: tick 365576: hostile on the map (removed): New Arrivals/Megavole/Berserk (e.g. Lolly)
-* incident: tick 370616: letter [PositiveEvent] Guests left: Terbinunt
-* incident: tick 491576: letter [PositiveEvent] Guests left: Terbinunt
-* incident: tick 526856: letter [NeutralEvent] Visitors
-* incident: tick 587336: letter [NeutralEvent] Summer
-* incident: tick 728456: letter [NeutralEvent] Wild woman wanders in
-* incident: tick 811616: letter [ThreatBig] Raid: Trash Lineup
-* incident: tick 826736: letter [NewQuest] Quest available: Pugobb's Refugees
-* incident: tick 834296: letter [NeutralEvent] Disturbing vision
-* incident: tick 882176: letter [NegativeEvent] Zzztt...
-* incident: tick 884696: letter [SL_ClawbackNotice] Claim #1 received
-* incident: tick 917456: letter [NeutralEvent] Blind healer
-* incident: tick 927536: letter [NegativeEvent] Insulting spree: Mariya
+* incident: tick 481496: letter [NewQuest] Quest available: The Ambushed Praetor
+* incident: tick 511736: letter [PositiveEvent] Guests left: Hefinistan Pact
+* incident: tick 557096: letter [NewQuest] Quest available: Jed's Sparrows
+* incident: tick 612536: letter [PositiveEvent] Guests left: Hefinistan Pact
+* incident: tick 776336: letter [NeutralEvent] Cult escapee
+* incident: tick 778856: letter [PositiveEvent] War merchant from The Gubasea League
+* incident: tick 793976: letter [NeutralEvent] Transport pod crash
+* incident: tick 793976: hostile on the map (removed): Psyck Pillers/SpaceRefugee (e.g. Fizzash)
+* incident: tick 801536: letter [NeutralEvent] Disturbing vision
+* incident: tick 826736: letter [ThreatBig] Raid: Psyck Pillers
+* incident: tick 829256: letter [PositiveEvent] Gift from The Gubasea League
+* incident: tick 836816: letter [ThreatBig] (*Name)Spine(/Name)'s howl
+* incident: tick 836816: letter [ThreatBig] (*Name)Spine(/Name) hostile
+* incident: tick 836816: hostile on the map (removed): Dark entities/CultEscapee (e.g. Spine)
+* incident: tick 839336: letter [AcceptJoiner] Transport pod crash: (*Name)Diana(/Name)
+* incident: tick 839336: letter [ThreatBig] Sightstealer revealed
+* incident: tick 839336: letter [SL_ClawbackNotice] Claim #1 received
+* incident: tick 839336: hostile on the map (removed): Dark entities/Sightstealer (e.g. sightstealer)
+* incident: tick 841856: hostile on the map (removed): Pact of Flumouk/Refugee (e.g. Diana)
+* incident: tick 864536: letter [PositiveEvent] Guests left: Hefinistan Pact
+* incident: tick 867056: letter [PositiveEvent] Guests left: Hefinistan Pact
+* incident: tick 902336: letter [NegativeEvent] Faction base proximity
+* incident: tick 952736: letter [PositiveEvent] Guests left: Hefinistan Pact
